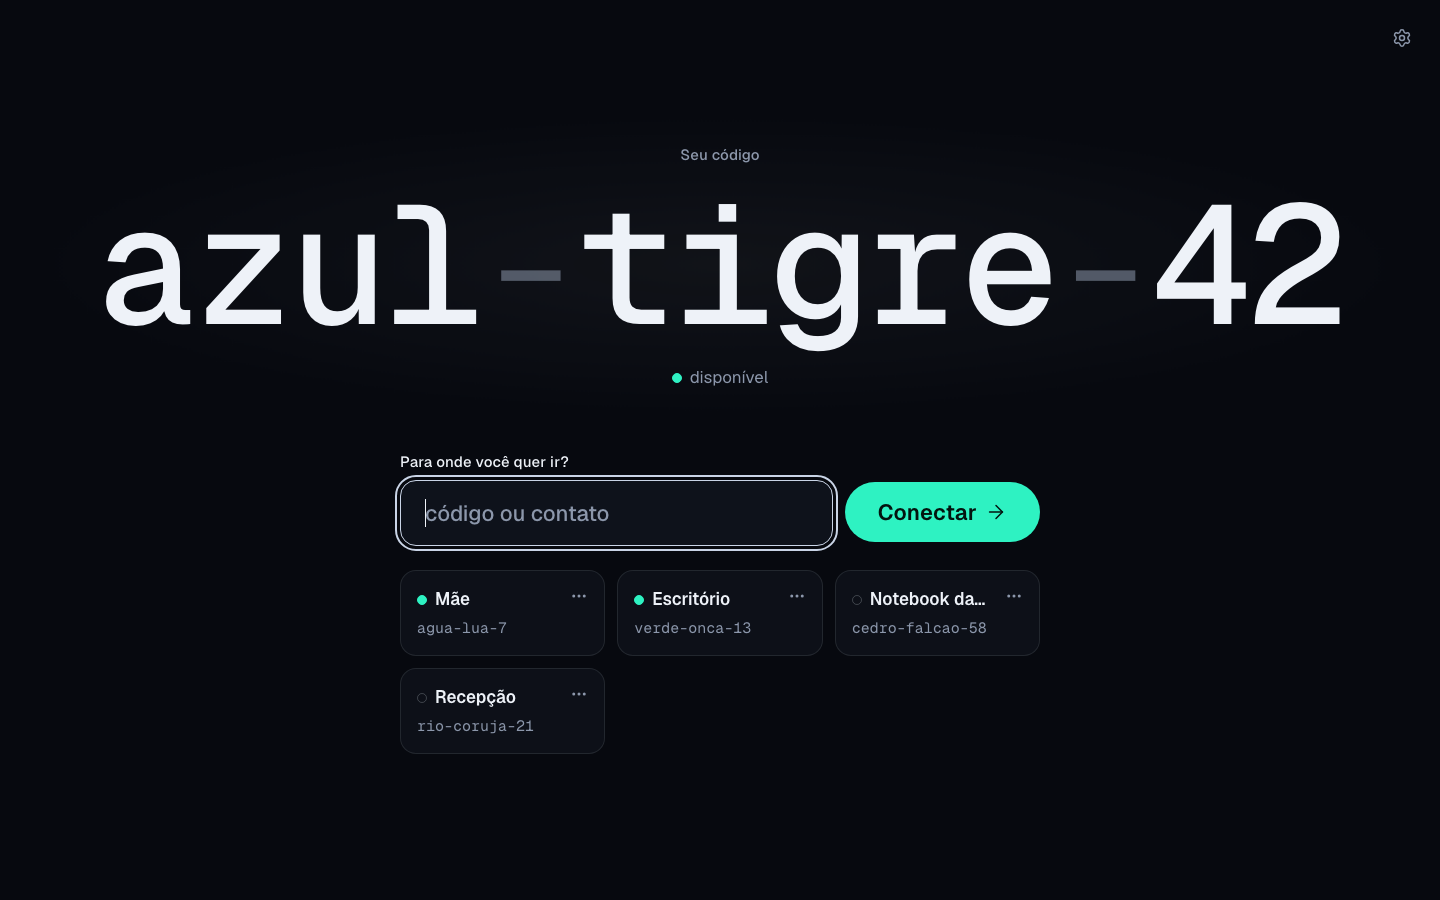
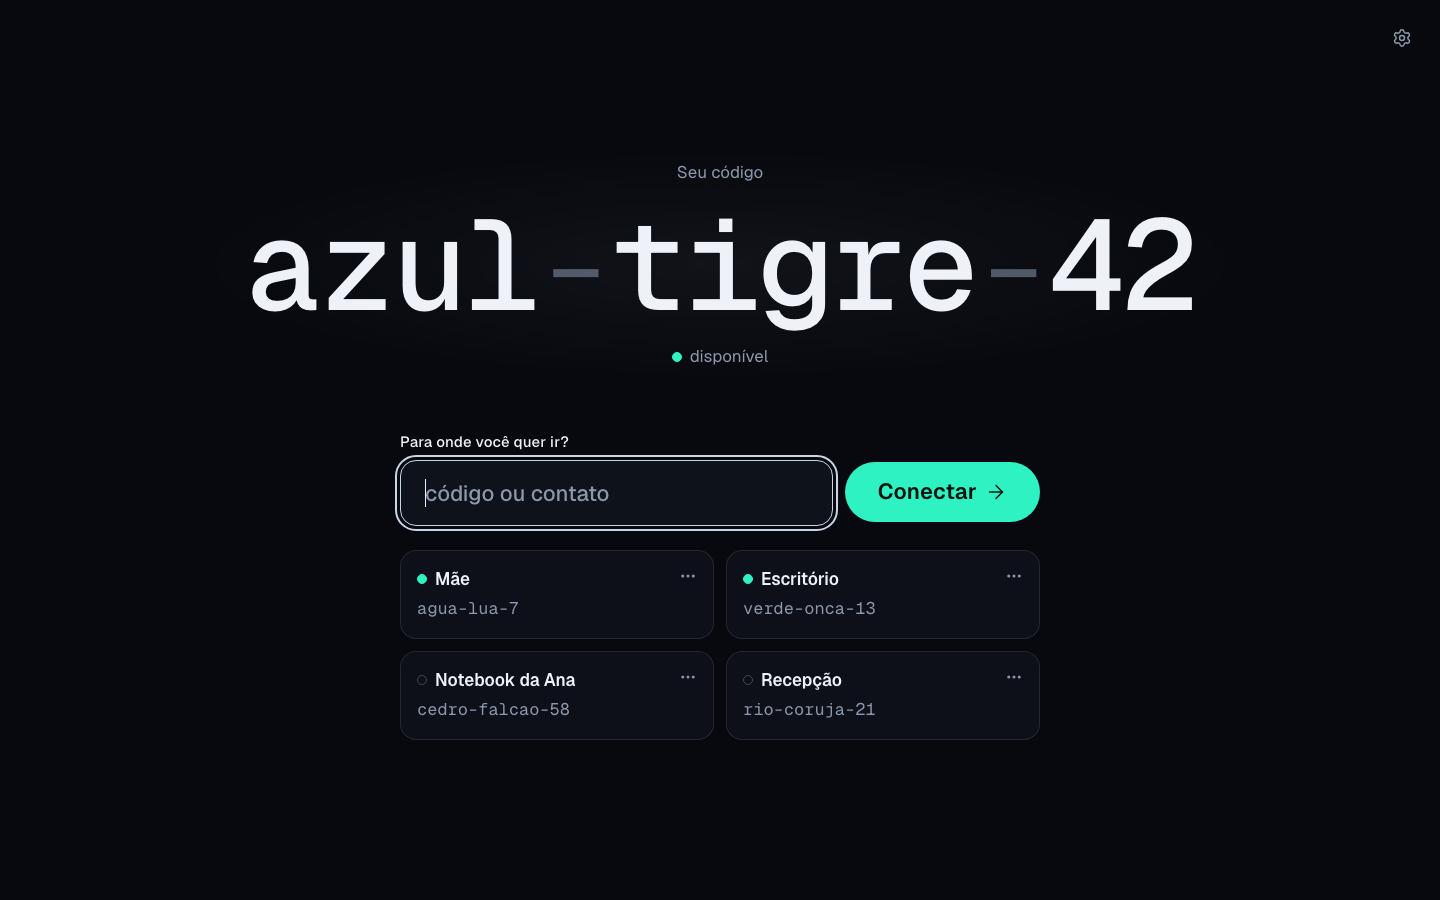
fix(ui): home keeps cards open on pointer; code cap; visible errors

diff --git a/apps/everydesk/ui/src/routes/Home.svelte b/apps/everydesk/ui/src/routes/Home.svelte
@@ -15,6 +15,7 @@
   import SettingsPanel from '../lib/home/SettingsPanel.svelte'
   import { ContactBook } from '../lib/home/contacts.svelte.ts'
   import { suggest } from '../lib/home/go.ts'
+  import { shouldCollapse } from '../lib/home/reveal.ts'
 
   let { onconnect, error = $bindable('') }: { onconnect: (peerId: string) => void; error?: string } = $props()
 
@@ -50,14 +51,35 @@
     }
   })
 
-  function focusout(e: FocusEvent) {
-    if (!goEl?.contains(e.relatedTarget as Node | null)) focused = false
+  // Pointer pressed inside the field/cards area; cleared after the click has landed.
+  let pointerInside = false
+
+  function collapseUnlessHeld() {
+    if (!goEl) return
+    if (shouldCollapse({ focusWithin: goEl.matches(':focus-within'), pointerInside })) focused = false
+  }
+
+  function focusout() {
+    // relatedTarget is unreliable (null on WKWebView button clicks): re-check next frame.
+    requestAnimationFrame(collapseUnlessHeld)
+  }
+
+  function windowdown(e: PointerEvent) {
+    pointerInside = !!goEl?.contains(e.target as Node)
+    if (pointerInside) focused = true
+    else requestAnimationFrame(collapseUnlessHeld)
+  }
+
+  function windowup() {
+    if (pointerInside) setTimeout(() => (pointerInside = false))
   }
 
   function wheel(e: WheelEvent) {
     if (e.deltaY > 0) scrolled = true
   }
 </script>
+
+<svelte:window onpointerdown={windowdown} onpointerup={windowup} onpointercancel={windowup} />
 
 <main class="home" onwheel={wheel}>
   <SettingsPanel />
@@ -73,10 +95,10 @@
             {onconnect}
             onpolicy={(c, key) => book.setPolicy(c, key)}
             onforget={(c) => book.remove(c)}
-            error={book.error}
           />
         </div>
       </div>
+      {#if book.error}<p class="book-error" role="alert">{book.error}</p>{/if}
     </div>
   </div>
 </main>
@@ -109,6 +131,11 @@
   .unfold.open {
     grid-template-rows: 1fr;
     opacity: 1;
+  }
+  .book-error {
+    margin: var(--space-4) 0 0;
+    color: var(--danger);
+    font-size: var(--fs-body);
   }
   .inner {
     min-height: 0;

diff --git a/apps/everydesk/ui/src/lib/home/ContactCards.svelte b/apps/everydesk/ui/src/lib/home/ContactCards.svelte
@@ -7,7 +7,6 @@
     onconnect: (peerId: string) => void
     onpolicy: (c: Contact, key: string) => void
     onforget: (c: Contact) => void
-    error?: string
   Export: focusFirst() — moves keyboard focus to the first card.
 -->
 <script lang="ts">
@@ -22,9 +21,8 @@
     onconnect: (peerId: string) => void
     onpolicy: (c: Contact, key: string) => void
     onforget: (c: Contact) => void
-    error?: string
   }
-  let { contacts, onconnect, onpolicy, onforget, error = '' }: Props = $props()
+  let { contacts, onconnect, onpolicy, onforget }: Props = $props()
 
   let open = $state<string | null>(null)
   let confirming = $state(false)
@@ -102,12 +100,11 @@
     </li>
   {/each}
 </ul>
-{#if error}<p class="error" role="alert">{error}</p>{/if}
 
 <style>
   .cards {
     display: grid;
-    grid-template-columns: repeat(auto-fill, minmax(196px, 1fr));
+    grid-template-columns: repeat(auto-fill, minmax(220px, 1fr));
     gap: var(--space-3);
     margin: 0;
     padding: 0;
@@ -166,7 +163,7 @@
     overflow: hidden;
     color: var(--text-muted);
     font-family: var(--font-code);
-    font-size: var(--fs-label);
+    font-size: var(--fs-body);
     text-overflow: ellipsis;
     white-space: nowrap;
   }
@@ -227,7 +224,7 @@
   }
   .cap {
     color: var(--text-muted);
-    font-size: var(--fs-label);
+    font-size: var(--fs-body);
   }
   .ask {
     margin: 0;
@@ -238,10 +235,5 @@
     display: flex;
     flex-wrap: wrap;
     gap: var(--space-2);
-  }
-  .error {
-    margin: var(--space-3) 0 0;
-    color: var(--danger);
-    font-size: var(--fs-body);
   }
 </style>

diff --git a/apps/everydesk/ui/src/lib/home/contacts.svelte.ts b/apps/everydesk/ui/src/lib/home/contacts.svelte.ts
@@ -5,6 +5,8 @@ import { invoke } from '@tauri-apps/api/core'
 import { listen } from '@tauri-apps/api/event'
 import { applyPresence, policyFromKey, type Contact, type Presence } from '../policy.ts'
 
+export const LOAD_ERROR = 'Não consegui carregar os contatos.'
+
 export class ContactBook {
   list = $state<Contact[]>([])
   error = $state('')
@@ -12,8 +14,10 @@ export class ContactBook {
   async load() {
     try {
       this.list = await invoke<Contact[]>('contacts_list')
+      if (this.error === LOAD_ERROR) this.error = ''
     } catch (e) {
-      this.error = `${e}`
+      console.error('contacts_list', e)
+      this.error = LOAD_ERROR
     }
   }
 
@@ -21,8 +25,9 @@ export class ContactBook {
     this.error = ''
     try {
       await invoke('contacts_set_policy', { peerId: c.peer_id, policy: policyFromKey(key) })
-    } catch {
-      this.error = 'Não deu para mudar como este contato entra. Tente de novo.'
+    } catch (e) {
+      console.error('contacts_set_policy', e)
+      this.error = 'Não consegui mudar como este contato entra. Tente de novo.'
     }
     await this.load()
   }
@@ -31,8 +36,9 @@ export class ContactBook {
     this.error = ''
     try {
       await invoke('contacts_remove', { peerId: c.peer_id })
-    } catch {
-      this.error = `Não deu para esquecer ${c.name || c.peer_id}. Tente de novo.`
+    } catch (e) {
+      console.error('contacts_remove', e)
+      this.error = `Não consegui esquecer ${c.name || c.peer_id}. Tente de novo.`
     }
     await this.load()
   }

diff --git a/apps/everydesk/ui/tests/GoField.test.ts b/apps/everydesk/ui/tests/GoField.test.ts
@@ -3,6 +3,7 @@ import { test } from 'node:test'
 import { fold, humanError, resolveTarget, suggest } from '../src/lib/home/go.ts'
 import { normalizeCode } from '../src/lib/session.ts'
 import type { Contact } from '../src/lib/policy.ts'
+import { shouldCollapse } from '../src/lib/home/reveal.ts'
 
 const c = (peer_id: string, name: string, online = false): Contact => ({
   peer_id,
@@ -82,4 +83,12 @@ test('errors read as plain Portuguese', () => {
   assert.match(humanError('Connection timeout'), /não respondeu/)
   assert.match(humanError('Wrong Password'), /senha/i)
   assert.match(humanError('something weird 0x42'), /Não foi possível conectar/)
+})
+
+test('cards stay open while focus or a pointer press is inside', () => {
+  assert.equal(shouldCollapse({ focusWithin: true, pointerInside: false }), false)
+  // WKWebView: clicking a card button blurs the field without focusing the button
+  assert.equal(shouldCollapse({ focusWithin: false, pointerInside: true }), false)
+  assert.equal(shouldCollapse({ focusWithin: true, pointerInside: true }), false)
+  assert.equal(shouldCollapse({ focusWithin: false, pointerInside: false }), true)
 })

diff --git a/apps/everydesk/ui/src/lib/home/bigcode.ts b/apps/everydesk/ui/src/lib/home/bigcode.ts
@@ -1,7 +1,8 @@
 // Pure helpers behind BigCode.svelte (tested in tests/BigCode.test.ts).
 
 export const CODE_MIN_PX = 32
-export const CODE_MAX_PX = 168
+/** About 128px: at 1440 wide the code reads as a plate (~72% width), not edge to edge. */
+export const CODE_MAX_PX = 128
 /** Horizontal page gutters (2 × 32px) the code must stay inside. */
 export const CODE_GUTTERS_PX = 64
 /** Geist Mono advance (0.6em) plus a little slack for the -0.03em tracking and rounding. */

diff --git a/apps/everydesk/ui/tests/BigCode.test.ts b/apps/everydesk/ui/tests/BigCode.test.ts
@@ -41,3 +41,9 @@ test('server status in plain words', () => {
   assert.deepEqual(serverStatus('conectando'), { label: 'conectando…', online: false })
   assert.deepEqual(serverStatus('erro: x'), { label: 'sem conexão', online: false })
 })
+
+test('1440 wide: capped, reads as a plate (under 75% of the width)', () => {
+  const px = codeFontSize(1440, 900, 13)
+  assert.equal(px, CODE_MAX_PX)
+  assert.ok(px * 13 * 0.62 < 1440 * 0.75)
+})

diff --git a/apps/everydesk/ui/src/lib/home/reveal.ts b/apps/everydesk/ui/src/lib/home/reveal.ts
@@ -1,0 +1,7 @@
+// When the contact cards under the field fold away (tested in tests/GoField.test.ts).
+// WKWebView (Tauri on macOS) does not focus a <button> on click, so a click on a card blurs
+// the field with relatedTarget null: a pointer pressed inside the area must keep it open.
+
+export function shouldCollapse(s: { focusWithin: boolean; pointerInside: boolean }): boolean {
+  return !s.focusWithin && !s.pointerInside
+}

diff --git a/apps/everydesk/ui/src/lib/home/BigCode.svelte b/apps/everydesk/ui/src/lib/home/BigCode.svelte
@@ -20,7 +20,7 @@
 </script>
 
 <section class="plate" aria-labelledby="my-code-label">
-  <p id="my-code-label" class="eyebrow t-label">Seu código</p>
+  <p id="my-code-label" class="eyebrow t-body">Seu código</p>
   <div class="lit">
     <span class="glow" aria-hidden="true"></span>
     {#if parts.length}
